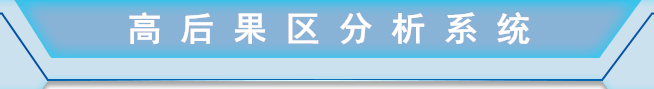
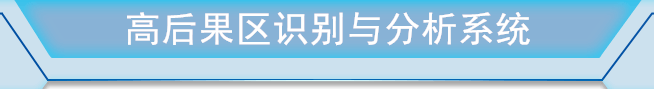
Fix: 标题修改及页面美化

Changed region(s): [[0.1835, 0.1348, 0.8257, 0.5169]]

diff --git a/src/main/webapp/jasmvvm/pages/row-onepage/total/total.html b/src/main/webapp/jasmvvm/pages/row-onepage/total/total.html
@@ -223,7 +223,43 @@
  i:hover{
 			cursor: pointer;
 		}		
-			
+			.fieldset-body{
+	width:100%;
+	height:100%;
+	display: flex;
+	justify-content: space-between;
+	align-items:stretch
+}
+.fieldset-item{
+	flex-basis:50%;
+	display: flex;
+}
+.fieldset-item .item-img{
+	flex-basis:40%;
+	position:relative
+}
+.fieldset-item .item-img img{
+	position: absolute;
+	top: 50%;
+	left: 50%;
+	transform: translate;
+	transform: translate(-50%,-50%);
+}
+.fieldset-item .item-info{
+	flex-basis:60%;
+	display: flex;
+	flex-direction: column;
+	justify-content: center;
+}
+.fieldset-item .item-info .item-title{
+	font-size: 16px;
+	color: #eeeeee;
+	line-height: 30px;
+}
+.fieldset-item .item-info .item-val{
+	font-size:32px;
+	color:#0ff1e9
+}		
 	</style>
 </head>
 
@@ -235,6 +271,28 @@
 					<jas-panel-opacity title="管线管理">
 						<div id="pipelineButton" @click="pipelineMapPage" :style="[pipelineStyle]" @mouseover="isActive1=true" @mouseout="isActive1=false" style="float:right;color:#3a9ebf;"><i class="fa fa-cogs fa-2x" aria-hidden="true"></i></div>
 						<div class="pipeline" style="height:100%;">
+						<div style="height:25%" >
+								<div class="fieldset-body">
+							<div class="fieldset-item">
+								<div class="item-img">
+									<img src="./image/not-check.png" alt="">
+								</div>
+								<div class="item-info">
+									<p class="item-val">5<span style="font-size:16px;">  条</span></p>	
+									<p class="item-title">本年度已识别</p>
+								</div>	
+							</div>	
+							<div class="fieldset-item">
+								<div class="item-img">
+									<img src="./image/not-repaire.png" alt="">
+								</div>
+								<div class="item-info">
+									<p class="item-val">3<span style="font-size:16px;">  条</span></p>	
+									<p class="item-title">本年度未识别</p>
+								</div>	
+							</div>	
+						</div>	
+							</div>
 							<div class="pipelineList" id="first_pipeline">
 								<ul >
 									<li><span>管线名称：</span>陕京四线
@@ -265,17 +323,6 @@
 									<li><span>最近评价时间：</span>2019年4月22日</li>
 								</ul>
 							</div>
-							<div class="pipelineList" >
-								<ul >
-									<li><span>管线名称：</span>潜荆线
-									<div class="icon">已识别&emsp;<i :style="[buttonStyle(4)]" @mouseover="isClick=4" @mouseout="isClick=0"  @click="intoMap" class="fa fa-podcast fa-lg" aria-hidden="true"></i></div>
-									</li>
-									<li><span>管线长度：</span>90KM</li>
-									<li><span>最近评价时间：</span>2019年2月14日</li>
-								</ul>
-							</div>
-							
-							
 						</div>
 					</jas-panel-opacity>
 				</div>
@@ -424,7 +471,7 @@
 								</thead>
 								<tbody>
 									<tr v-for="(item,index)  in detailData"> 
-										<td><span>{{index+1}}</span></td><td>{{item.projectName}}</td> <td>{{item.one}}</td><td>{{item.two}}</td><td>{{item.three}}</td><td>{{item.datetime}}</td><td><i class="fa fa-eye" style="color:#efc276" aria-hidden="true"></i></td>
+										<td><span>{{index+1}}</span></td><td>{{item.projectName}}</td> <td>{{item.one}}</td><td>{{item.two}}</td><td>{{item.three}}</td><td>{{item.datetime}}</td><td><i class="fa fa-eye" @click='previewFile' style="color:#efc276" aria-hidden="true"></i></td>
 									</tr>
 								</tbody>
 							</table>
@@ -515,9 +562,9 @@
 				that.getThematicStatisticsPie();
 				that.detailData=[
 									{"projectName":"西南管线","one":"12处","two":"23处","three":"45处","datetime":"2019年3月"},
-									{"projectName":"西南管线","one":"12处","two":"23处","three":"45处","datetime":"2019年3月"},
-									{"projectName":"西南管线","one":"12处","two":"23处","three":"45处","datetime":"2019年3月"},
-									{"projectName":"西南管线","one":"12处","two":"23处","three":"45处","datetime":"2019年3月"}
+									{"projectName":"京津管线","one":"12处","two":"23处","three":"45处","datetime":"2019年3月"},
+									{"projectName":"内蒙管线","one":"12处","two":"23处","three":"45处","datetime":"2019年3月"},
+									{"projectName":"福建管线","one":"12处","two":"23处","three":"45处","datetime":"2019年3月"}
 								];
 				
 			})
@@ -770,7 +817,14 @@
 				}
 				return {color:'#53bf95'};
 			},
-			
+			previewFile : function(){
+				top.jasTools.selfDialogNew.show({
+					title: '分析报告',
+					src: './dialogs/preview_file.html',
+					height: '740px',
+					width: '35%',
+				})
+			},
 			openRiskDetail:function(){
 				// $(".map-info").hide();
 				// alert(jasTools.base.rootPath);

diff --git a/src/main/webapp/jasmvvm/pages/row-onepage/total/dialogs/preview_file.html b/src/main/webapp/jasmvvm/pages/row-onepage/total/dialogs/preview_file.html
@@ -1,0 +1,67 @@
+<!DOCTYPE html>
+<html lang="en">
+
+<head>
+	<meta charset="UTF-8">
+	<meta name="viewport" content="width=device-width, initial-scale=1.0">
+	<meta http-equiv="X-UA-Compatible" content="ie=edge">
+	<title>Document</title>
+	<link rel="stylesheet" href="./../../../../lib/font-awesome-4.7.0/css/font-awesome.css">
+	<link rel="stylesheet" href="./../../../../lib/element-ui/v2.4.1/theme-chalk/index.min.css">
+	<link rel="stylesheet" href="./../../../../src/css/main.css">
+	<link rel="stylesheet" href="../../../../src/css/onepage.css">
+	<style>
+		html,body,
+		#app{
+			width: 100%;
+			height: 100%;
+			background:transparent;
+		}
+		.rank-table th,
+		.rank-table td{
+			white-space: nowrap;
+		}
+		.left-div{
+			margin:12px;
+		    height: 100%;
+		    width: 100%;
+    		border-left: 1px solid #808080;
+		}
+	</style>
+</head>
+
+<body>
+	<div id="app" v-cloak style="width: 100%">
+		<div class="left-div">
+			<img alt="" src="../image/preview_file.png" width="100%">
+		</div>
+	</div>
+</body>
+<script src="./../../../../lib/jquery/jquery-1.12.4.min.js"></script>
+<script src="./../../../../lib/vue/vue.js"></script>
+<script src="./../../../../lib/element-ui/v2.4.1/index.min.js"></script>
+
+<!-- import JavaScript -->
+<script src="../../../../lib/echarts/echarts.min.js"></script>
+
+<script src="./../../../../common/components/jas-components.js "></script>
+<script src="./../../../../common/js/jas-tools.js"></script>
+<script>
+var appDetail = new Vue({
+	el: "#app",
+	data: function () {
+		return {
+		}
+	},
+	created: function () {
+		var that = this;
+		$(function(){
+		});
+	},
+	methods: {
+	}
+		
+});
+
+</script>
+</html>
